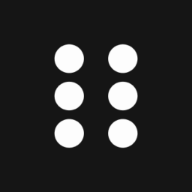
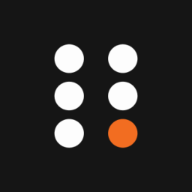
ref: add depth to homepage, set correct footer

Changed region(s): [[0.5625, 0.5938, 0.7188, 0.7812]]

diff --git a/src/assets/icons/GithubIcon.tsx b/src/assets/icons/GithubIcon.tsx
@@ -1,38 +1,51 @@
 
 import { SVGProps } from "react"
+import tw, { css } from 'twin.macro';
 
-const GithubIcon = (props: SVGProps<SVGSVGElement>) => (
-  <svg
-    width={24}
-    height={24}
-    viewBox="0 0 27 27"
-    fill="none"
-    xmlns="http://www.w3.org/2000/svg"
-    className="icon"
-    {...props}
-  >
-    <path
-      d="M13.5 25.5C20.1274 25.5 25.5 20.1274 25.5 13.5C25.5 6.87258 20.1274 1.5 13.5 1.5C6.87258 1.5 1.5 6.87258 1.5 13.5C1.5 20.1274 6.87258 25.5 13.5 25.5Z"
-      stroke="#FDFDFD"
-      strokeWidth={1.3}
-      strokeLinecap="round"
-      strokeLinejoin="round"
-    />
-    <path
-      d="M16.2998 21.8998V19.6642C16.3298 19.2928 16.2784 18.9194 16.1486 18.5688C16.019 18.2183 15.8142 17.8986 15.5479 17.6312C18.0599 17.3585 20.6999 16.4315 20.6999 12.1785C20.6996 11.0909 20.27 10.045 19.4999 9.25734C19.8646 8.30586 19.8388 7.25414 19.4279 6.32067C19.4279 6.32067 18.4838 6.04805 16.2998 7.47354C14.4662 6.98966 12.5335 6.98966 10.6999 7.47354C8.51587 6.04805 7.57187 6.32067 7.57187 6.32067C7.16096 7.25414 7.13519 8.30586 7.49987 9.25734C6.72397 10.0509 6.29389 11.1062 6.29987 12.2018C6.29987 16.4237 8.93987 17.3507 11.4518 17.6544C11.1887 17.9193 10.9857 18.2351 10.8561 18.5814C10.7265 18.9276 10.6733 19.2965 10.6999 19.6642V21.8998"
-      stroke="#FDFDFD"
-      strokeWidth={1.3}
-      strokeLinecap="round"
-      strokeLinejoin="round"
-    />
-    <path
-      d="M10.7006 20.3427C8.30059 21.1008 6.30059 20.3427 5.10059 18.0059"
-      stroke="#FDFDFD"
-      strokeWidth={1.3}
-      strokeLinecap="round"
-      strokeLinejoin="round"
-    />
-  </svg>
-)
+interface GithubIconProps extends SVGProps<SVGSVGElement>, React.Attributes {} 
+
+const GithubIcon = (props: GithubIconProps) => {
+  const hoverStrokeOranjoStyle = css`
+    &:hover > path {
+      border-color: black;
+      ${tw`stroke-oranjo`}
+    }
+  `
+  return ( <svg
+      width={24}
+      height={24}
+      viewBox="0 0 27 27"
+      fill="none"
+      xmlns="http://www.w3.org/2000/svg"
+      className="icon"
+      // eslint-disable-next-line react/no-unknown-property
+      css={hoverStrokeOranjoStyle}
+      {...props}
+    >
+      
+        <path
+          d="M13.5 25.5C20.1274 25.5 25.5 20.1274 25.5 13.5C25.5 6.87258 20.1274 1.5 13.5 1.5C6.87258 1.5 1.5 6.87258 1.5 13.5C1.5 20.1274 6.87258 25.5 13.5 25.5Z"
+          stroke="#FDFDFD"
+          strokeWidth={1.3}
+          strokeLinecap="round"
+          strokeLinejoin="round"
+        />
+        <path
+          d="M16.2998 21.8998V19.6642C16.3298 19.2928 16.2784 18.9194 16.1486 18.5688C16.019 18.2183 15.8142 17.8986 15.5479 17.6312C18.0599 17.3585 20.6999 16.4315 20.6999 12.1785C20.6996 11.0909 20.27 10.045 19.4999 9.25734C19.8646 8.30586 19.8388 7.25414 19.4279 6.32067C19.4279 6.32067 18.4838 6.04805 16.2998 7.47354C14.4662 6.98966 12.5335 6.98966 10.6999 7.47354C8.51587 6.04805 7.57187 6.32067 7.57187 6.32067C7.16096 7.25414 7.13519 8.30586 7.49987 9.25734C6.72397 10.0509 6.29389 11.1062 6.29987 12.2018C6.29987 16.4237 8.93987 17.3507 11.4518 17.6544C11.1887 17.9193 10.9857 18.2351 10.8561 18.5814C10.7265 18.9276 10.6733 19.2965 10.6999 19.6642V21.8998"
+          stroke="#FDFDFD"
+          strokeWidth={1.3}
+          strokeLinecap="round"
+          strokeLinejoin="round"
+        />
+        <path
+          d="M10.7006 20.3427C8.30059 21.1008 6.30059 20.3427 5.10059 18.0059"
+          stroke="#FDFDFD"
+          strokeWidth={1.3}
+          strokeLinecap="round"
+          strokeLinejoin="round"
+        />
+    </svg>
+  )
+}
 
 export default GithubIcon;

diff --git a/src/assets/icons/WhitePaperIcon.tsx b/src/assets/icons/WhitePaperIcon.tsx
@@ -1,0 +1,65 @@
+import * as React from "react"
+import { SVGProps } from "react"
+import tw, { css } from 'twin.macro';
+
+interface WhitePaperIconProps extends SVGProps<SVGSVGElement>, React.Attributes {} 
+
+const SvgComponent = (props: WhitePaperIconProps ) => {
+    
+    const hoverStrokeOranjoStyle = css`
+      &:hover > path {
+        border-color: black;
+        ${tw`stroke-oranjo`}
+      }
+      `
+
+    return (
+      <svg
+        width={24}
+        height={25}
+        viewBox="0 0 24 25"
+        fill="none"
+        xmlns="http://www.w3.org/2000/svg"
+        // eslint-disable-next-line react/no-unknown-property
+        css={hoverStrokeOranjoStyle}
+        {...props}
+      >
+        <path
+          d="M4 21.8971V3.09707C4 2.7657 4.26863 2.49707 4.6 2.49707H16.2515C16.4106 2.49707 16.5632 2.56028 16.6757 2.67281L19.8243 5.82133C19.9368 5.93386 20 6.08647 20 6.2456V21.8971C20 22.2284 19.7314 22.4971 19.4 22.4971H4.6C4.26863 22.4971 4 22.2284 4 21.8971Z"
+          stroke="#FDFDFD"
+          strokeWidth={1.5}
+          strokeLinecap="round"
+          strokeLinejoin="round"
+        />
+        <path
+          d="M8 10.4971L16 10.4971"
+          stroke="#FDFDFD"
+          strokeWidth={1.5}
+          strokeLinecap="round"
+          strokeLinejoin="round"
+        />
+        <path
+          d="M8 18.4971L16 18.4971"
+          stroke="#FDFDFD"
+          strokeWidth={1.5}
+          strokeLinecap="round"
+          strokeLinejoin="round"
+        />
+        <path
+          d="M8 14.4971L12 14.4971"
+          stroke="#FDFDFD"
+          strokeWidth={1.5}
+          strokeLinecap="round"
+          strokeLinejoin="round"
+        />
+        <path
+          d="M16 2.49707V5.89707C16 6.22844 16.2686 6.49707 16.6 6.49707H20"
+          stroke="#FDFDFD"
+          strokeWidth={1.5}
+          strokeLinecap="round"
+          strokeLinejoin="round"
+        />
+      </svg>
+    )
+}
+export default SvgComponent

diff --git a/src/containers/Footer/index.tsx b/src/containers/Footer/index.tsx
@@ -1,27 +1,26 @@
-import { BrandContainer, Brand } from '../Navigation/types';
 import { Link } from 'react-router-dom';
-import { NormalText } from '../../components/CreateGameCard/types';
-import { LogoDarkWo } from '../../assets/images';
+import { TwitterIcon, WhitepaperIcon, GithubIcon } from '../../assets/icons';
+import { SmallText } from '../../components/CreateGameCard/types';
 import 'twin.macro';
 
 
 const Footer = () => {
   return (
     <footer tw="mt-5 w-full dark:bg-pretu">
-      <div tw="container dark:text-blanc flex w-full py-[56px] font-primary items-end gap-x-[10px] justify-between">
-       <BrandContainer tw="mb-[4px]">
-         <div tw="mr-[15px]">
-          <LogoDarkWo tw="w-[25px]" />
-         </div>
-         <Brand>Wega</Brand>
-       </BrandContainer>
+      <div tw="container dark:text-blanc flex flex-col w-full py-[56px] font-primary items-end gap-y-[16px] items-center">
+        <div tw="flex gap-x-[16px] ">
+         <Link to="https://github.com/Misfits-Labs" target="_blank">
+          <GithubIcon />
+         </Link>
+         <Link to="https://twitter.com/PlayWega" target="_blank">
+          <TwitterIcon />
+         </Link>
+         <Link to="https://wega.gitbook.io/wega-litepaper/" target="_blank">
+          <WhitepaperIcon />
+         </Link>
+        </div>
+        <SmallText tw="dark:text-shinishi">&#169; 2023 Wega. All rights reserved.</SmallText>
        <div>
-        <span tw="text-[21px] font-[400] leading-[19px]">
-         Play together, Own together
-        </span>
-       </div>
-       <div>
-         <Link to="https://wega.gitbook.io/wega-litepaper/" target="_blank"><NormalText>Documentation</NormalText></Link>
        </div>
       </div>
     </footer>

diff --git a/src/assets/icons/TwitterIcon.tsx b/src/assets/icons/TwitterIcon.tsx
@@ -1,24 +1,23 @@
 
 import { SVGProps } from "react"
+import 'twin.macro';
 
 const TwitterIcon = (props: SVGProps<SVGSVGElement>) => (
   <svg
-    width={25}
-    height={21}
-    viewBox="0 0 29 25"
+    width={24}
+    height={25}
+    viewBox="0 0 24 25"
     fill="none"
     xmlns="http://www.w3.org/2000/svg"
-    className="icon"
     {...props}
   >
     <path
-      d="M27.9613 1.19092C27.9613 1.19092 25.4918 2.69526 24.1186 3.12165C23.3816 2.24779 22.402 1.62841 21.3125 1.34729C20.223 1.06619 19.076 1.13689 18.0268 1.54987C16.9775 1.96285 16.0764 2.69815 15.4457 3.65634C14.8148 4.61454 14.4847 5.74939 14.4997 6.90742V8.16934C12.349 8.22683 10.218 7.735 8.29636 6.73761C6.37469 5.74023 4.72207 4.26827 3.48565 2.45284C3.48565 2.45284 -1.40948 13.8102 9.60457 18.8579C7.08422 20.6219 4.08183 21.5065 1.03809 21.3817C12.0521 27.6913 25.5138 21.3817 25.5138 6.86956C25.5127 6.51805 25.4799 6.16741 25.4159 5.82216C26.6648 4.55203 27.9613 1.19092 27.9613 1.19092Z"
-      stroke="#FDFDFD"
-      strokeWidth={1.3}
-      strokeLinecap="round"
-      strokeLinejoin="round"
+      d="M18.9014 0.49707H22.5816L14.5415 10.6632L24 24.4971H16.5941L10.7935 16.1069L4.15631 24.4971H0.473926L9.07356 13.6232L0 0.49707H7.59394L12.8372 8.16599L18.9014 0.49707ZM17.6098 22.0601H19.649L6.48589 2.80599H4.29759L17.6098 22.0601Z"
+      fill="#FDFDFD"
+      tw="hover:fill-oranjo"
     />
   </svg>
 )
 
 export default TwitterIcon;
+

diff --git a/src/components/GameCard/types.ts b/src/components/GameCard/types.ts
@@ -8,15 +8,13 @@ z-index: 50;
 ${ tw`flex flex-col items-stretch` }
 `
 export const GameCardHeader = styled.div`
- border-radius: 15px 15px 0px 0px;
-//  background: #343434;
  min-height: 160px;
  width: 100%;
  position: inherit;
  z-index: inherit; 
 `
 export const GameCardBody = styled.div`
- border-radius: 0px 0px 15px 15px;
+ border-radius: 20px; 
  padding: 20px 10px; 
  background: #282828;
  min-height: 186px;
@@ -41,5 +39,5 @@ font-size: 16px;
 font-style: normal;
 font-weight: 400;
 line-height: 15px; 
- ${tw`dark:text-blanc`}
+ ${tw`dark:text-shinishi`}
 `

diff --git a/index.html b/index.html
@@ -5,7 +5,7 @@
     <link rel="apple-touch-icon" sizes="180x180" href="/apple-touch-icon.png">
     <link rel="icon" type="image/png" sizes="16x16" href="/favicon-16x16.png">
     <link rel="icon" type="image/png" sizes="32x32" href="/favicon-32x32.png">
-    <!-- <link rel="manifest" href="/site.webmanifest"> -->
+    <link rel="manifest" href="/site.webmanifest">
     <meta name="viewport" content="width=device-width, initial-scale=1.0" />
     <title>Wega. Win together, Own together</title>
     <script>

diff --git a/src/assets/icons/index.ts b/src/assets/icons/index.ts
@@ -35,3 +35,4 @@ export { default as CoinSideHeadsIcon } from './CoinSideHeadsIcon';
 export { default as CoinSideTailsIcon } from './CoinSideTailsIcon';
 export { default as CoinSideHeadsIconWithCircle } from './CoinSideHeadsIconWithCircle';
 export { default as CoinSideTailsIconWithCircle } from './CoinSideTailsIconWithCircle';
+export { default as WhitepaperIcon } from './WhitePaperIcon.tsx';

diff --git a/src/containers/PlayGamePage/index.tsx b/src/containers/PlayGamePage/index.tsx
@@ -20,6 +20,7 @@ import "twin.macro"
 
 const PlayGamePage = () => {
  const { state: { gameId, gameUuid } } = useLocation();
+ 
  const { user, wallet } = useWegaStore();
  const { useGetGameResultsQuery, useGetWinnersQuery } = useBlockchainApiHooks;
  const game = useSelector(state => selectGameById(state, gameId));
